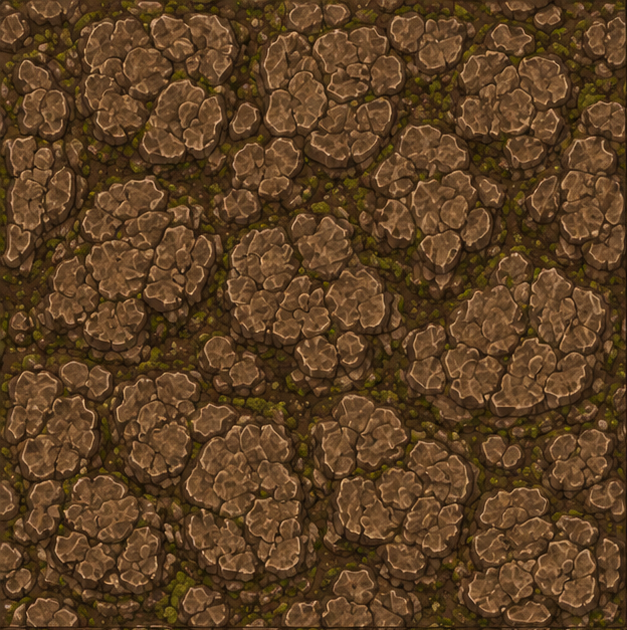
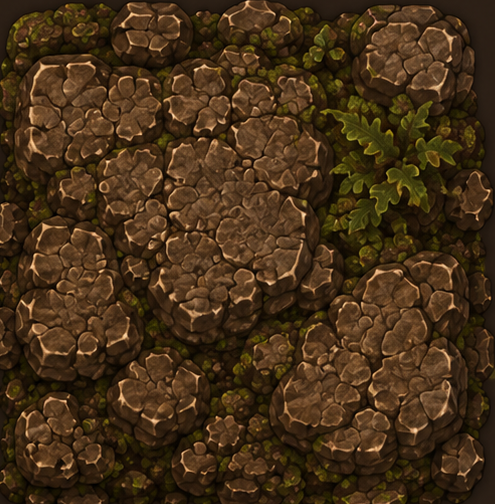
feat(dungeon): 岩タイル壁4種をマスごとランダム表示(1マス1枚cover・暗い縁で継ぎ目をぼかす)

diff --git a/src/pages/Dungeon.jsx b/src/pages/Dungeon.jsx
@@ -923,7 +923,7 @@ export default function Dungeon() {
     }
     if (state.stairs.x === x && state.stairs.y === y) return { ch: '▼', bg: floorBg, overlay: stairsTile, stairsGlow: true }
     // 壁マスは壁画像を1マスごとに表示（複数あればマス座標でランダム）。床マスは透過。
-    if (wall) return { ch: '', bg: wallTile ? '#14100c' : C.wallVis, wallImg: dgWallVariant(dungeon?.id, x, y) || wallTile }
+    if (wall) return { ch: '', bg: wallTile ? '#241a12' : C.wallVis, wallImg: dgWallVariant(dungeon?.id, x, y) || wallTile }
     return { ch: '', bg: floorBg }
   }
 
@@ -1048,20 +1048,15 @@ export default function Dungeon() {
               '--lx': c.fx.lunge ? `${Math.sign(c.fx.lunge.dx) * 40}%` : '0%',
               '--ly': c.fx.lunge ? `${Math.sign(c.fx.lunge.dy) * 40}%` : '0%',
             } : null
-            // 壁マスも床と同じくワールド固定で連続表示＝マス目（1マスごとの継ぎ目）が消える。
+            // 壁マスは「1枚で完結した岩タイル」を1マス＝1枚で表示（4種からマスごとにランダム）。
             const wallImg = c.wallImg
-            const WALLT = 3 // 壁テクスチャ1枚=約3マス
-            // 壁は専用テクスチャの素の見た目で表示（必要なら brightness/saturate で調整）
-            const wallFilter = 'none'
             const tileStyle = wallImg
-              ? (cellPx > 0
-                ? { backgroundImage: `url(${wallImg})`, backgroundRepeat: 'repeat', backgroundSize: `${cellPx * WALLT}px ${cellPx * WALLT}px`, backgroundPosition: `${-x * cellPx}px ${-y * cellPx}px`, filter: wallFilter }
-                : { backgroundImage: `url(${wallImg})`, backgroundSize: 'cover', backgroundPosition: 'center', filter: wallFilter })
+              ? { backgroundImage: `url(${wallImg})`, backgroundSize: 'cover', backgroundPosition: 'center' }
               : { backgroundImage: 'none' }
             // グリッド線対策：マス間のサブピクセル隙間を「そのマス自身の色」で埋める。
-            //  透過の床マス・連続表示の壁マスはそのまま（継ぎ目なし）、暗いマスだけ自色で塞ぐ。
+            //  透過の床マスはそのまま（継ぎ目なし）、壁マス・暗いマスは自色（暗）で塞ぐ。
             const gapFill = floorTile
-              ? ((c.bg !== 'transparent' && !wallImg) ? `0 0 0 0.7px ${c.bg}` : 'none')
+              ? (c.bg !== 'transparent' ? `0 0 0 0.7px ${c.bg}` : 'none')
               : `0 0 0 0.6px ${c.bg}`
             return (
               <div key={`${vx}-${vy}`} onClick={() => clickable && adjClick(vx, vy)}

diff --git a/src/constants/pets.js b/src/constants/pets.js
@@ -294,7 +294,7 @@ export const DUNGEON_TILES = {
   d30: {
     floor:  '/dg_floor2.png',  // 床（シームレス地面テクスチャ）
     wall:   '/dg_wall.png',    // 壁（walls未指定時のフォールバック）
-    walls:  ['/dg_wall4.png'],  // 壁（壁4）。複数入れるとマスごとにランダム表示
+    walls:  ['/dg_wall2.png', '/dg_wall3.png', '/dg_wall4.png', '/dg_wall5.png'],  // 壁4種（マスごとにランダム表示）
     stairs: '/dg_stairs.png',  // 階段
     item:   '/dg_item.png',    // 落ちているアイテム（共通マーカー）
   },
